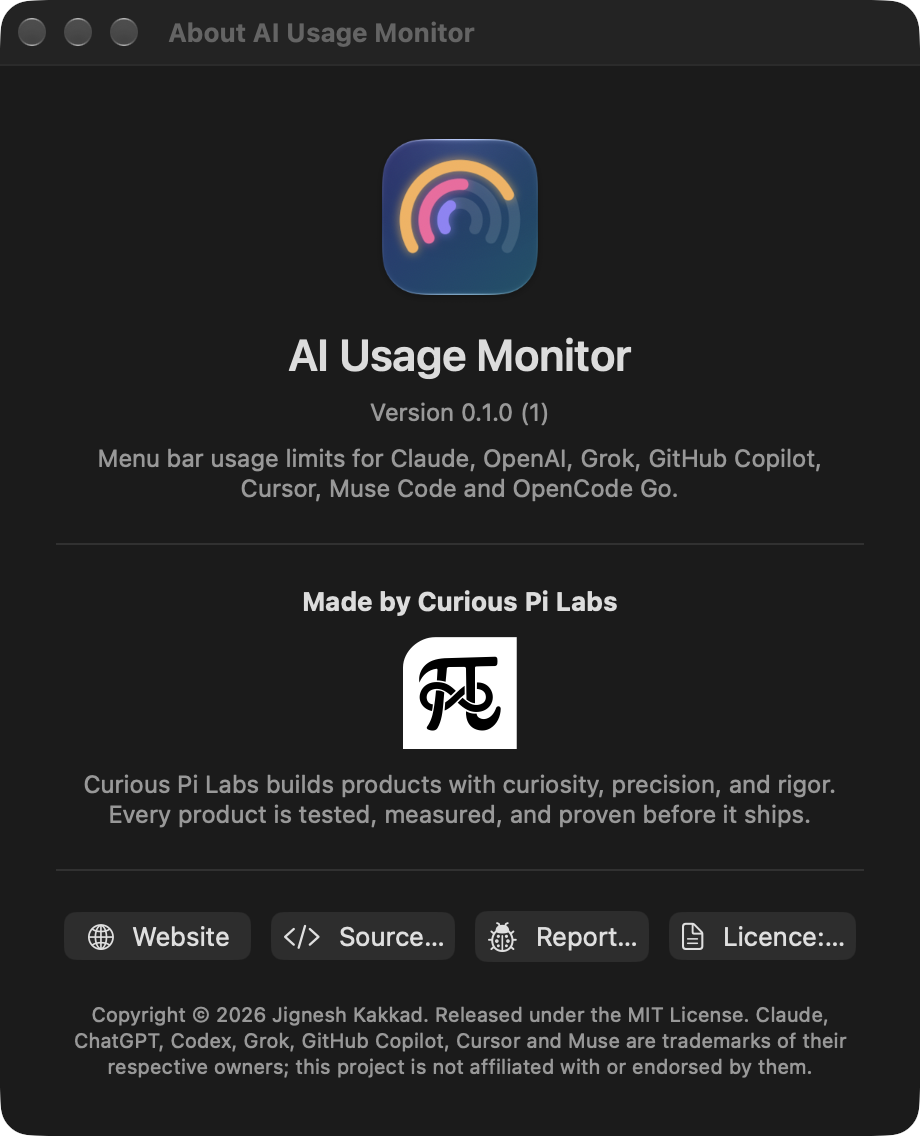
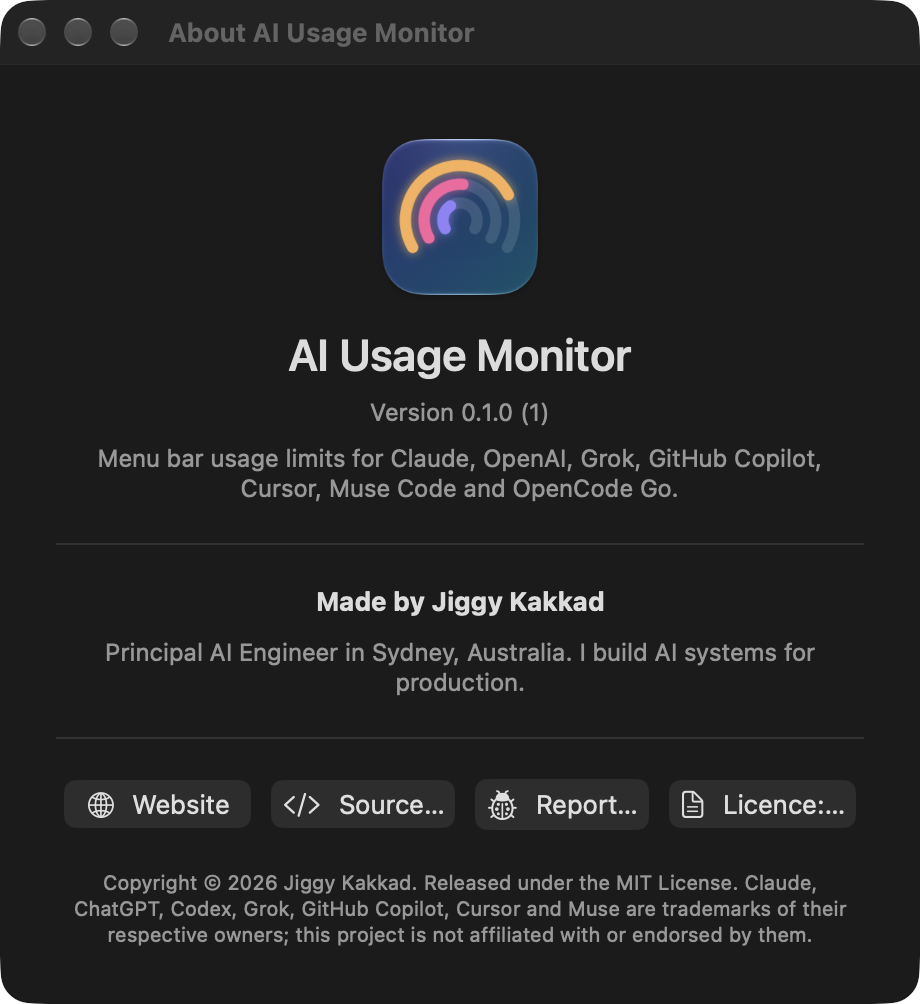
rebrand About window, README and licence to Jiggy Kakkad
Copyright holder, maker line, tagline and website now name Jiggy Kakkad; the Curious Pi Labs mark imageset and its trademark sentence are removed and the About screenshot is recaptured.

diff --git a/App/Views/About/AboutView.swift b/App/Views/About/AboutView.swift
@@ -44,14 +44,9 @@ struct AboutView: View {
 
     private var makerBlock: some View {
         VStack(spacing: 10) {
-            Text("Made by Curious Pi Labs")
+            Text("Made by Jiggy Kakkad")
                 .font(.headline)
                 .accessibilityIdentifier("about.maker")
-            Image("CuriousPiLabsMark")
-                .resizable()
-                .scaledToFit()
-                .frame(height: 56)
-                .accessibilityLabel("Curious Pi Labs logo")
             Text(AboutInfo.tagline)
                 .font(.callout)
                 .multilineTextAlignment(.center)
@@ -97,17 +92,16 @@ enum AboutInfo {
     static let summary = "Menu bar usage limits for Claude, OpenAI, Grok, GitHub Copilot, Cursor, "
         + "Muse Code and OpenCode Go."
 
-    static let tagline = "Curious Pi Labs builds products with curiosity, precision, and rigor. "
-        + "Every product is tested, measured, and proven before it ships."
+    static let tagline = "Principal AI Engineer in Sydney, Australia. I build AI systems for production."
 
-    static let legal = "Copyright © 2026 Curious Pi Labs. Released under the MIT License. "
+    static let legal = "Copyright © 2026 Jiggy Kakkad. Released under the MIT License. "
         + "Claude, ChatGPT, Codex, Grok, GitHub Copilot, Cursor and Muse are trademarks of their "
         + "respective owners; this project is not affiliated with or endorsed by them."
 
     static let repository = "https://github.com/jig21nesh/usage-monitor-app"
 
     static let links: [Link] = [
-        Link(id: "website", title: "Website", symbol: "globe", url: url("https://curiouspilabs.com")),
+        Link(id: "website", title: "Website", symbol: "globe", url: url("https://jiggykakkad.com")),
         Link(id: "github", title: "Source on GitHub", symbol: "chevron.left.forwardslash.chevron.right",
              url: url(repository)),
         Link(id: "issues", title: "Report an issue", symbol: "ladybug",

diff --git a/UITests/AboutUITests.swift b/UITests/AboutUITests.swift
@@ -11,8 +11,8 @@ final class AboutUITests: XCTestCase {
         XCTAssertTrue(window.staticTexts["about.version"].waitForExistence(timeout: 10))
         XCTAssertTrue(window.staticTexts["about.version"].text.hasPrefix("Version "))
         XCTAssertEqual(window.staticTexts["about.name"].text, "AI Usage Monitor")
-        XCTAssertEqual(window.staticTexts["about.maker"].text, "Made by Curious Pi Labs")
-        XCTAssertTrue(window.staticTexts["about.tagline"].text.hasPrefix("Curious Pi Labs builds products"))
+        XCTAssertEqual(window.staticTexts["about.maker"].text, "Made by Jiggy Kakkad")
+        XCTAssertTrue(window.staticTexts["about.tagline"].text.hasPrefix("Principal AI Engineer"))
         for link in ["website", "github", "issues", "license"] {
             XCTAssertTrue(window.buttons["about.\(link)"].exists, "link button \(link) should exist")
         }

diff --git a/README.md b/README.md
@@ -175,7 +175,7 @@ app version, who makes it, and links to the website, the source on GitHub, the i
 and the MIT licence.
 
 <img src="docs/images/about.png" width="400"
-     alt="About window with the app icon, version, Curious Pi Labs mark and tagline, and link buttons">
+     alt="About window with the app icon, version, maker and tagline, and link buttons">
 
 ## Configuration
 
@@ -528,8 +528,8 @@ macOS, Xcode and tool versions plus a redacted Diagnostics report.
 
 ## License and trademarks
 
-AI Usage Monitor is released under the [MIT License](LICENSE). Copyright (c) 2026 Curious Pi
-Labs.
+AI Usage Monitor is released under the [MIT License](LICENSE).
+Copyright (c) 2026 Jiggy Kakkad.
 
 In short: you may use, copy, modify, merge, publish, distribute, sublicense and sell copies of
 the software, provided the copyright and permission notice stay with it. The software is
@@ -541,9 +541,8 @@ frameworks only. Development tooling (XcodeGen, SwiftLint, markdownlint) is not 
 the app.
 
 **Trademarks:** Claude, ChatGPT, Codex, Grok, GitHub Copilot, Cursor and Muse are trademarks of
-their respective owners. The Curious Pi Labs name and logo are trademarks of Curious Pi Labs and
-are not covered by the MIT licence. This project is not affiliated with or endorsed by any of
-these companies.
+their respective owners. This project is not affiliated with or endorsed by any of these
+companies.
 
-**Made by [Curious Pi Labs](https://curiouspilabs.com).** Curious Pi Labs builds products with
-curiosity, precision, and rigor. Every product is tested, measured, and proven before it ships.
+**Made by [Jiggy Kakkad](https://jiggykakkad.com).** Principal AI Engineer in Sydney, Australia,
+building AI systems for production.

diff --git a/CHANGELOG.md b/CHANGELOG.md
@@ -38,7 +38,7 @@ project adheres to [Semantic Versioning](https://semver.org/spec/v2.0.0.html).
   refresh wired into the app (#12).
 - App icon: three glowing gauge rings on an indigo-to-teal squircle, generated by
   `scripts/generate-app-icon.swift` at all ten macOS sizes (#9).
-- About window with version, Curious Pi Labs information and links to the website, source,
+- About window with version, maker information and links to the website, source,
   issue tracker and licence (#19).
 - Colour-coded menu bar icon: green, orange or red by the tracked provider's session limit
   (thresholds default 60% and 80%), grey when unknown or stale, with a monochrome option; new
